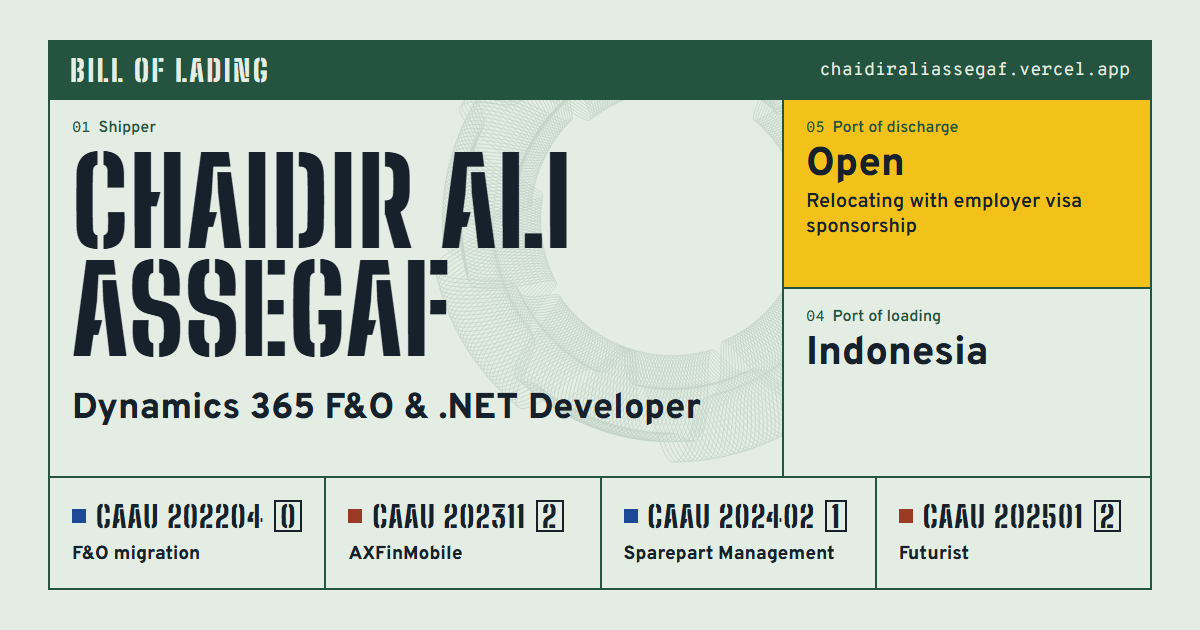
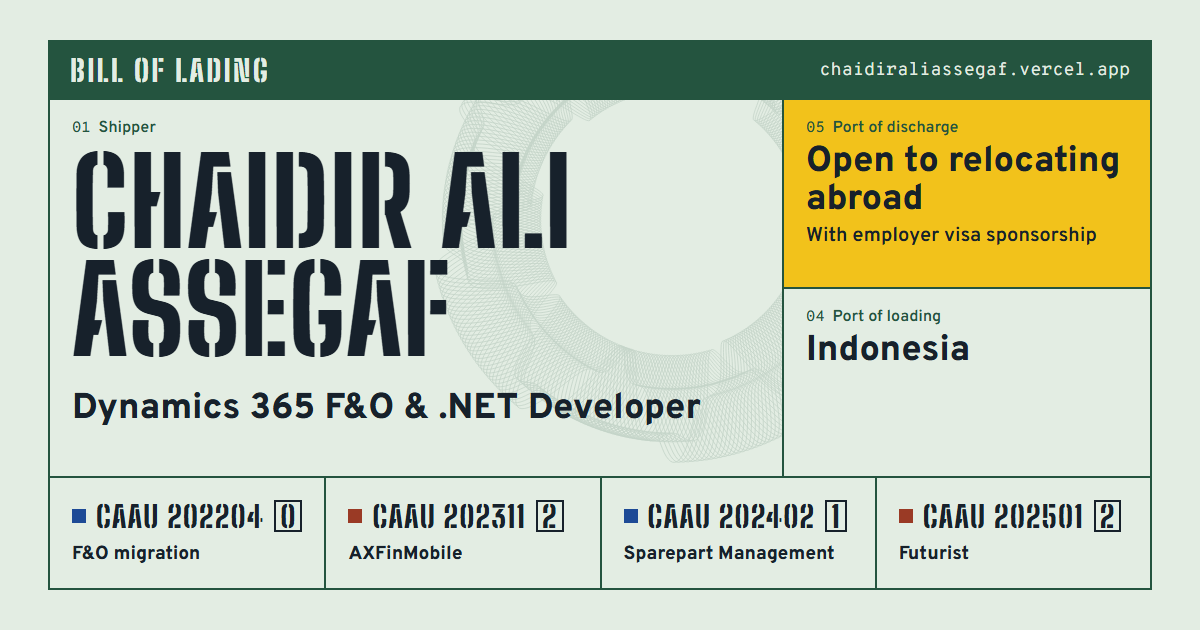
fix(og-card): say "Open to relocating abroad" on the site card
The site card still had the old Port of discharge value, a bare "Open"
over "Relocating with employer visa sponsorship". It now matches the
home page (src/data/profile.ts): "Open to relocating abroad" over
"With employer visa sponsorship", so the value reads on its own.

At 40px the longer value broke onto three lines and pushed the marks
row off the bottom of the card, so both right-column values drop to
36px. That sets the discharge value in two lines and leaves the grid
where it was.

Changed region(s): [[0.6475, 0.2413, 0.9558, 0.3921], [0.6783, 0.5127, 0.8325, 0.6032]]

diff --git a/scripts/og-card/card.html b/scripts/og-card/card.html
@@ -113,7 +113,7 @@
 
   .live { background: var(--signal); }
 
-  .big { margin-top: 6px; font-size: 40px; font-weight: 800; line-height: 1.05; }
+  .big { margin-top: 6px; font-size: 36px; font-weight: 800; line-height: 1.05; }
 
   .small { margin-top: 4px; font-size: 20px; font-weight: 600; line-height: 1.25; }
 
@@ -158,8 +158,8 @@
     </div>
     <div class="field live">
       <p class="label"><span>05</span>Port of discharge</p>
-      <p class="big">Open</p>
-      <p class="small">Relocating with employer visa sponsorship</p>
+      <p class="big">Open to relocating abroad</p>
+      <p class="small">With employer visa sponsorship</p>
     </div>
     <div class="field">
       <p class="label"><span>04</span>Port of loading</p>
